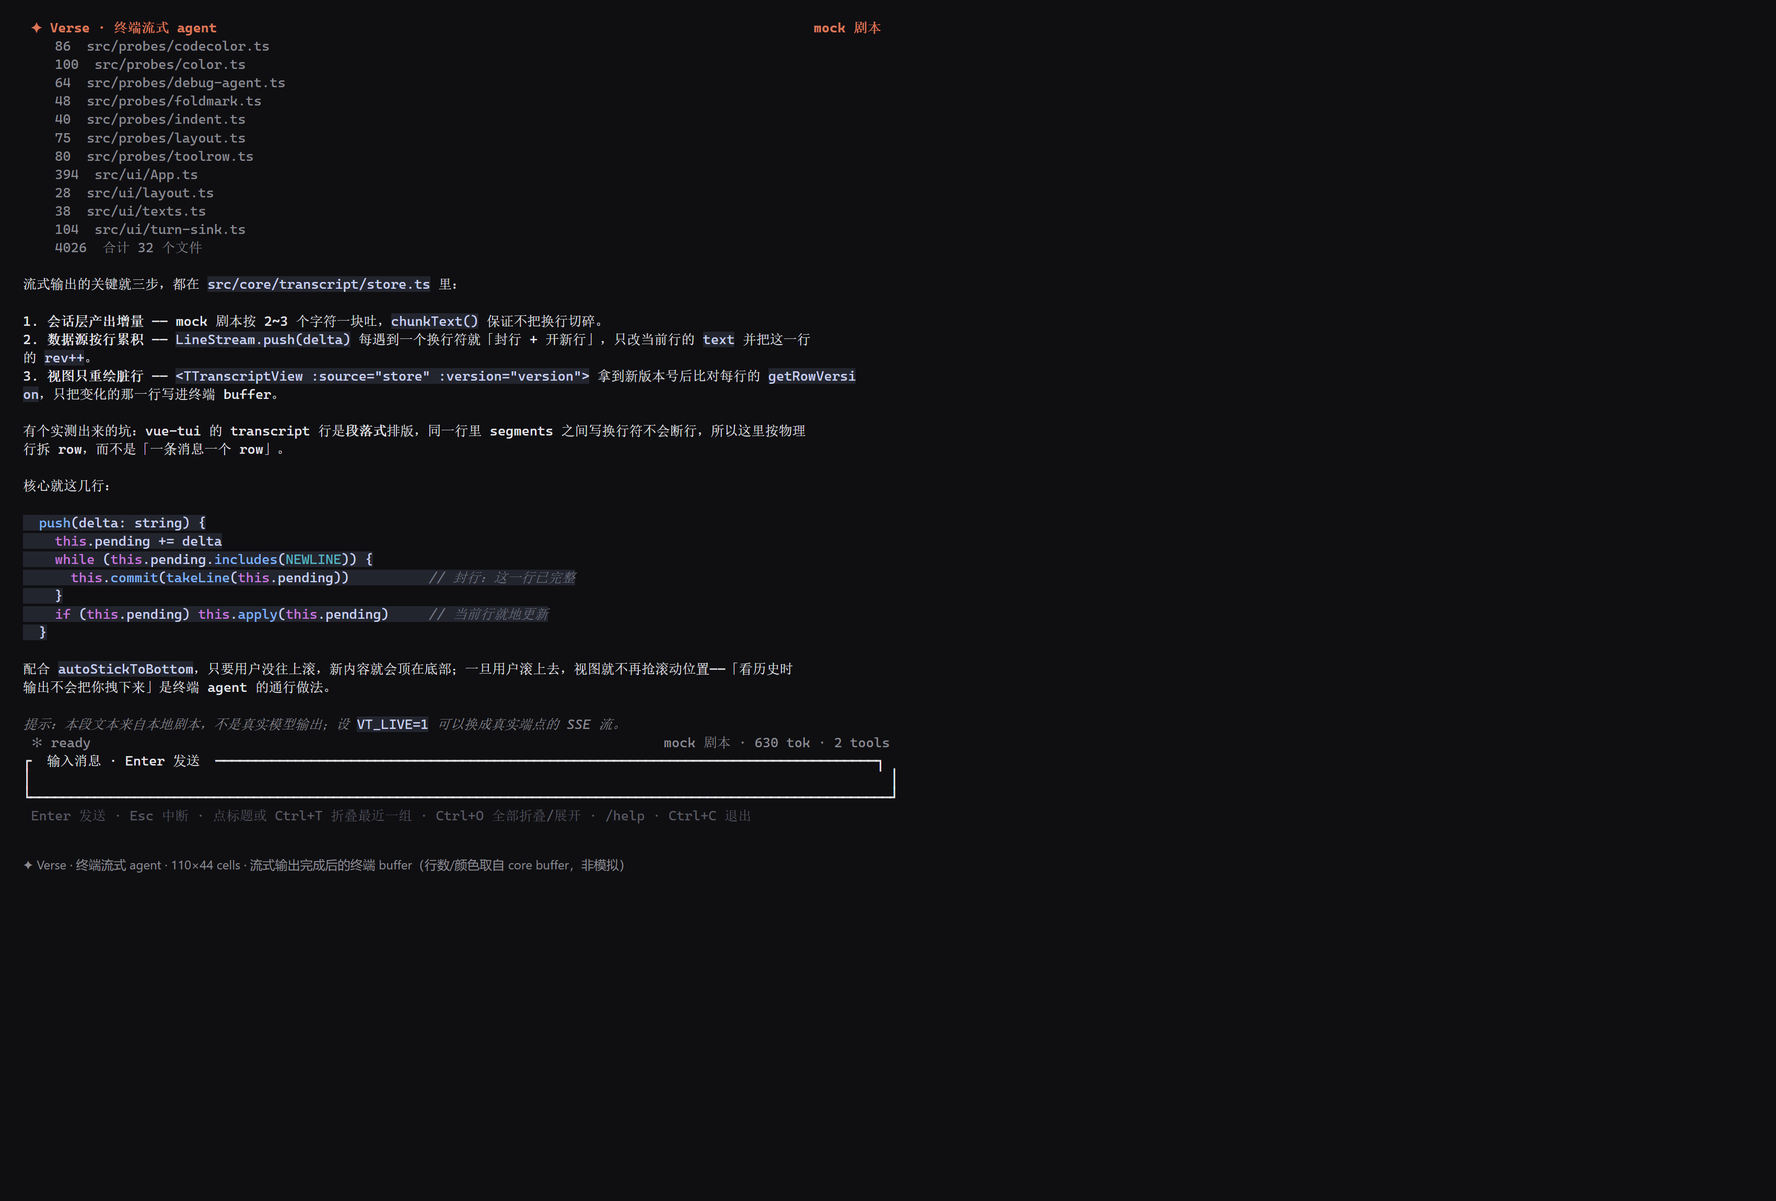
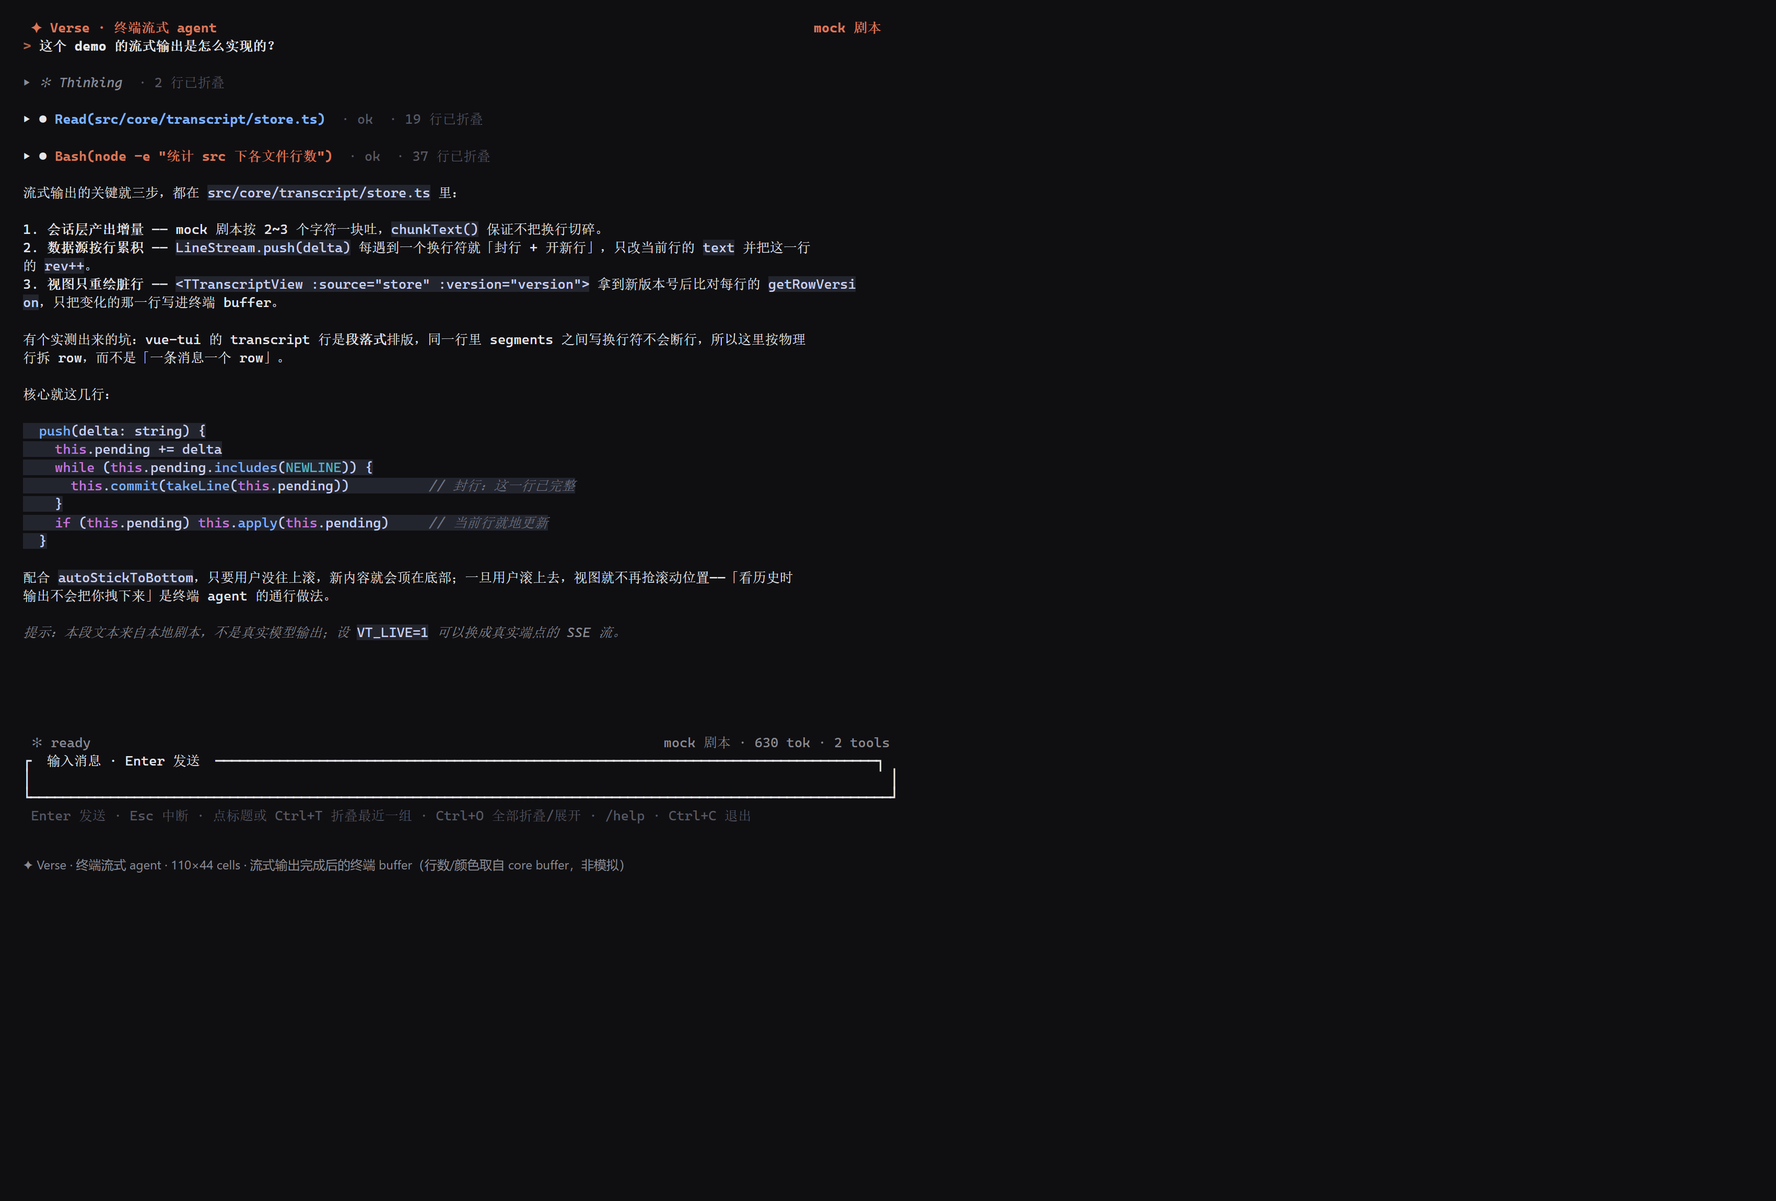
feat(fold): 折叠规则改为手风琴——流式中只展开当前组，回合结束全部收起
- store 新增 soloExpand(keepId?)：只留指定组展开，其余收起（无参则全收起）
- turn-sink 接入：新思考组 / 新工具组出现时收起前面的组；正文开始流式输出
  （此时没有当前组）全部收起；finish() 收尾再全收起一次（含 Esc 中断）
- shot.ts 新增 VT_SHOT_MIDTOOL=1：等第一个工具组展开那一帧出图
- smoke 新增两条数据层断言（手风琴不变式 max≤1、回合结束 0 展开）→ 20+9 项
- agent-check 折叠段按新默认态加「先显式展开」基线；两条旧断言随语义改写
- 文档图更新：新增流式中截图，删掉与默认态重复的折叠态图

Changed region(s): [[0.0, 0.0309, 0.4988, 0.6174]]

diff --git a/src/checks/smoke.ts b/src/checks/smoke.ts
@@ -76,18 +76,23 @@ const storeText = (): string => api.store.entries.map((e) => (e.kind === 'line' 
 
 // ── 第 1 轮：流式增量 ────────────────────────────────────────────────
 const versionSamples: number[] = []
+// 手风琴不变式：一轮进行中，展开的分组数任何时刻都不能超过 1
+const openGroupSamples: number[] = []
 api.submit(PROMPT_1)
 const deadline = Date.now() + 20_000
 // 先等这一轮真的开跑（submit 是异步启动），再采样——否则第一帧就会漏掉。
 while (!api.state().streaming && Date.now() < deadline) await sleep(2)
 while (api.state().streaming && Date.now() < deadline) {
   versionSamples.push(api.store.version.value)
+  openGroupSamples.push(api.groups().filter((g) => !g.collapsed).length)
   await sleep(3)
 }
 await api.whenIdle()
 
 const afterFirst = screenText()
 const firstState = api.state()
+const groupsAfterTurn = api.groups()
+
 
 // ── 折叠/展开：数据层（可见行）与屏幕层都要跟着变 ────────────────────
 const visText = (): string =>
@@ -101,6 +106,9 @@ const rowPayloadText = (): string => {
   for (let i = 0; i < api.store.rowCount(); i++) parts.push(JSON.stringify(api.store.getRow(i)))
   return parts.join(NL)
 }
+// 回合结束后是「全收起」，先展开全部作为基线，再测折叠往返
+api.toggleAll()
+await sleep(20)
 const expandedPayload = rowPayloadText()
 const groupsAfterFirst = api.groups()
 const expandedText = visText()
@@ -119,7 +127,10 @@ const reExpandedPayload = rowPayloadText()
 // ── 第 2 轮：中断 ────────────────────────────────────────────────────
 const rowsBeforeLong = api.store.rowCount()
 api.submit(PROMPT_LONG)
-await sleep(120)
+await sleep(60)
+// /long 会先清空转写：基线要取「清空后、这一轮开跑时」的行数
+const rowsAtLongStart = api.store.rowCount()
+await sleep(60)
 api.interrupt()
 await api.whenIdle()
 await sleep(20)
@@ -159,8 +170,9 @@ check(
   `展开态工具组含 params 块：${/(command|path): .{0,40}/.exec(expandedText)?.[0] ?? '(没找到)'}`,
 )
 check(
-  '思考被归成一个分组并自动收起',
-  groupsAfterFirst.some((g) => g.kind === 'thinking' && g.collapsed && g.lines > 0),
+  '思考与每次工具调用各自成组',
+  groupsAfterFirst.some((g) => g.kind === 'thinking' && g.lines > 0) &&
+    groupsAfterFirst.filter((g) => g.kind === 'tool').length >= 2,
   `groups=${JSON.stringify(groupsAfterFirst)}`,
 )
 
@@ -207,6 +219,16 @@ check(
 )
 
 check(
+  '流式中只展开当前组（手风琴）',
+  openGroupSamples.length > 0 && Math.max(...openGroupSamples) <= 1,
+  `采样 ${openGroupSamples.length} 次，展开组数最大值 ${openGroupSamples.length ? Math.max(...openGroupSamples) : '-'}（期望 ≤ 1）`,
+)
+check(
+  '回合结束后分组全部收起',
+  groupsAfterTurn.length > 1 && groupsAfterTurn.every((g) => g.collapsed),
+  `${groupsAfterTurn.length} 个分组，收起 ${groupsAfterTurn.filter((g) => g.collapsed).length} 个`,
+)
+check(
   '折叠真的隐藏了内容行',
   nowCollapsed === true && collapsedRows < expandedRows && !collapsedText.includes('合计'),
   `可见行 ${expandedRows} → ${collapsedRows}；折叠后仍能读到「合计」=${collapsedText.includes('合计')}`,
@@ -235,8 +257,8 @@ check(
 check('响应式宽度未溢出', finalScreen.every((line) => line.length <= COLS), `所有行 ≤ ${COLS} 列`)
 check(
   'Esc 能中断一轮',
-  api.store.rowCount() > rowsBeforeLong && /已中断/.test(afterInterrupt),
-  `行数 ${rowsBeforeLong} → ${api.store.rowCount()}；屏上出现中断提示=${/已中断/.test(afterInterrupt)}`,
+  api.store.rowCount() > rowsAtLongStart && /已中断/.test(afterInterrupt),
+  `这一轮从 ${rowsAtLongStart} 行涨到 ${api.store.rowCount()} 行（清空前是 ${rowsBeforeLong} 行）；屏上出现中断提示=${/已中断/.test(afterInterrupt)}`,
 )
 
 const failures = checks.filter((c) => !c.ok)

diff --git a/src/probes/foldrule.ts b/src/probes/foldrule.ts
@@ -1,0 +1,78 @@
+/**
+ * 探针：把一轮对话里「分组展开/收起」的轨迹按阶段打出来。
+ *
+ * 用途：确认手风琴规则真的按预期走 ——
+ *   思考阶段：思考组展开
+ *   工具阶段：思考组收起、当前工具组展开（前面的工具组也收起）
+ *   正文阶段：没有「当前组」，全部收起
+ *   回合结束：全部收起
+ *
+ * 用法：node src/probes/foldrule.ts
+ */
+import { createStdoutRenderer, createTerminalApp } from '@simon_he/vue-tui/cli'
+import { App, type AppApi } from '../ui/App.ts'
+import { styles } from '../core/theme.ts'
+import { loadDotEnv } from '../core/env.ts'
+
+loadDotEnv()
+
+const sleep = (ms: number) => new Promise<void>((r) => setTimeout(r, ms))
+const holder: { api: AppApi | null } = { api: null }
+const app = createTerminalApp({
+  cols: 110,
+  rows: 40,
+  component: App,
+  props: {
+    speed: 4, // 放慢，让每个阶段都有稳定的采样窗口
+    onReady(next: AppApi) {
+      holder.api = next
+    },
+  },
+  defaultStyle: styles.text,
+})
+app.mount()
+const out = createStdoutRenderer(app.terminal, {
+  output: { write: () => {}, isTTY: false },
+  clear: false,
+  hideCursor: false,
+  altScreen: false,
+  trackResize: false,
+  defaultBg: null,
+})
+void out
+
+await sleep(60)
+const api = holder.api
+if (!api) {
+  console.error('App 未就绪')
+  process.exit(1)
+}
+
+/** 当前展开的组：`kind:lines` 形式，便于一眼看出轨迹 */
+const openGroups = (): string => {
+  const open = api.groups().filter((g) => !g.collapsed)
+  return open.length ? open.map((g) => `${g.kind}(${g.lines}行)`).join(', ') : '（无，全部收起）'
+}
+
+api.submit('这个 demo 的流式输出是怎么实现的？')
+const deadline = Date.now() + 60_000
+const seen: string[] = []
+let maxOpen = 0
+while (api.state().streaming && Date.now() < deadline) {
+  const phase = api.state().phase
+  const openCount = api.groups().filter((g) => !g.collapsed).length
+  maxOpen = Math.max(maxOpen, openCount)
+  const line = `${phase.padEnd(9)} 展开: ${openGroups()}`
+  if (seen.at(-1) !== line) {
+    seen.push(line)
+    console.log('  ' + line)
+  }
+  await sleep(15)
+}
+await api.whenIdle()
+await sleep(30)
+console.log('  ' + `${api.state().phase.padEnd(9)} 展开: ${openGroups()}   ← 回合结束`)
+console.log(`\n阶段变化 ${seen.length} 次；过程中最大同时展开数 = ${maxOpen}（规则要求 ≤ 1）`)
+
+out.dispose()
+process.exit(0)

diff --git a/src/ui/turn-sink.ts b/src/ui/turn-sink.ts
@@ -24,7 +24,13 @@ export function createTurnSink(store: TranscriptStore, setPhase: (phase: Phase) 
   const keyOf = (tool: ToolStep): string => tool.id ?? `${tool.name}::${tool.arg}`
   const thinkingGroup: { id: string | null } = { id: null }
 
-  /** 思考说完就自动收起（参考答案的默认行为）；点标题可再展开 */
+  /**
+   * 一轮进行中的折叠规则（手风琴）：只有**正在写的那块**展开，前面的全部收起。
+   *   - 新的思考组出现 → 收起之前的
+   *   - 新的工具组出现 → 收起之前的（思考组也随之收起）
+   *   - 正文开始流式输出 → 此时没有「当前组」，于是全部收起
+   * 一轮结束时由 finish() 再全部收起一次（用户手点展开的也不例外，规则就是这么定的）。
+   */
   const collapseThinking = (): void => {
     if (thinkingGroup.id) store.setGroupCollapsed(thinkingGroup.id, true)
     thinkingGroup.id = null
@@ -37,6 +43,7 @@ export function createTurnSink(store: TranscriptStore, setPhase: (phase: Phase) 
       const { group, head } = store.startToolGroup({ name: tool.name, arg: tool.arg, params: tool.params })
       entry = { group, head, outStarted: false }
       toolGroups.set(key, entry)
+      store.soloExpand(group.id) // 新组独占展开，前面的收起
     }
     return entry
   }
@@ -48,6 +55,7 @@ export function createTurnSink(store: TranscriptStore, setPhase: (phase: Phase) 
         thinkingGroup.id = g.id
         live.thinking = store.stream('system', { group: g.id })
         live.answer = null
+        store.soloExpand(g.id) // 手风琴：新思考组独占展开
         setPhase('thinking')
       }
       live.thinking.push(delta)
@@ -83,6 +91,7 @@ export function createTurnSink(store: TranscriptStore, setPhase: (phase: Phase) 
         live.thinking?.end()
         live.thinking = null
         collapseThinking()
+        store.soloExpand() // 正文流式输出时没有「当前组」，全部收起
         store.blank()
         live.answer = store.stream('assistant')
         setPhase('answering')
@@ -96,6 +105,7 @@ export function createTurnSink(store: TranscriptStore, setPhase: (phase: Phase) 
     live.answer?.end()
     for (const t of toolGroups.values()) store.setToolStatus(t.head, 'ok')
     toolGroups.clear()
+    store.soloExpand() // 回合结束：think / tool 全部收起
     if (aborted) store.addNote('⎿ 已中断 · 本轮输出到此为止')
   }
 

diff --git a/src/cli/shot.ts b/src/cli/shot.ts
@@ -35,6 +35,9 @@ const PROMPTS = (
   .map((p) => p.trim())
   .filter(Boolean)
 const speed = Number(process.env.VT_SPEED ?? '0.05') || 0.05
+// 中途快照：等某个工具组展开（= 一轮正跑到工具阶段）就立刻出图，不等整轮结束。
+// 用来拍「流式中只有当前组是展开的」这个状态。
+const midTool = process.env.VT_SHOT_MIDTOOL === '1'
 
 const sleep = (ms: number) => new Promise<void>((r) => setTimeout(r, ms))
 
@@ -75,8 +78,17 @@ for (const prompt of PROMPTS) {
   // submit 只是启动一轮（异步），先等它真的开跑，再等它跑完——否则立刻查 streaming 会是 false。
   const deadline = Date.now() + (live ? 120_000 : 30_000)
   while (!api.state().streaming && Date.now() < deadline) await sleep(5)
-  while (api.state().streaming && Date.now() < deadline) await sleep(20)
-  await api.whenIdle()
+  if (midTool) {
+    // 等到「有工具组正展开」的那一帧就停手：那一刻正是「当前组展开、前面的已收起」。
+    // 配合 VT_SPEED 放慢节奏，抓到的就是一个稳定的流式中状态。
+    while (Date.now() < deadline) {
+      if (api.groups().some((g) => g.kind === 'tool' && !g.collapsed)) break
+      await sleep(10)
+    }
+  } else {
+    while (api.state().streaming && Date.now() < deadline) await sleep(20)
+    await api.whenIdle()
+  }
   await sleep(60)
 }
 

diff --git a/src/checks/agent-check.ts b/src/checks/agent-check.ts
@@ -211,6 +211,10 @@ const visibleText = (): string =>
     .visibleEntries()
     .map((e) => (e.kind === 'line' ? e.text : e.title))
     .join(NL)
+// 回合结束后的默认态是「分组全部收起」（手风琴规则的收尾），
+// 所以要测 params 展示与折叠往返，得先显式展开一遍拿到真实基线。
+api.toggleAll()
+await sleep(30)
 const expandedPayload = payloadText()
 const expandedText = visibleText()
 const expandedRows = api.store.rowCount()
@@ -236,7 +240,7 @@ const reExpandedPayload = payloadText()
 check(
   '再展开恢复（▾ 且行数变多）',
   reExpanded === false && reExpandedRows > collapsedRows && reExpandedPayload.includes('▾'),
-  `可见行 ${collapsedRows} → ${reExpandedRows}（比折叠前 ${expandedRows} 多，因为那次思考还收着）`,
+  `可见行 ${collapsedRows} → ${reExpandedRows}（与展开基线 ${expandedRows} 一致即说明往返无损）`,
 )
 
 const failures = checks.filter((c) => !c.ok)

diff --git a/src/core/transcript/store.ts b/src/core/transcript/store.ts
@@ -263,6 +263,24 @@ export class TranscriptStore implements TTranscriptDataSource {
     return last.id
   }
 
+  /**
+   * 手风琴：只留 keepId 这个组展开，其余全部收起（不传 keepId 则全收起）。
+   *
+   * 一轮进行中由 turn-sink 调用，实现「正在写的那块展开、前面的一律收起」；
+   * 一轮结束（或正文开始流式输出时）也用同一入口把全部收起。
+   */
+  soloExpand(keepId?: string): void {
+    let changed = false
+    for (const g of this.groups.values()) {
+      const shouldCollapse = keepId === undefined || g.id !== keepId
+      if (g.collapsed !== shouldCollapse) {
+        g.collapsed = shouldCollapse
+        changed = true
+      }
+    }
+    if (changed) this.bump()
+  }
+
   setToolStatus(head: ToolEntry, status: ToolStatus): void {
     head.status = status
     head.rev++

diff --git a/README.md b/README.md
@@ -34,7 +34,7 @@ pnpm dev                # 交互式
 | 命令 | 说明 |
 |---|---|
 | `pnpm dev` | 交互式 TUI（需要真实 TTY；无 TTY 会直接提示去跑 `pnpm smoke`） |
-| `pnpm smoke` | 无头：渲染 / 流式 / 折叠 / 颜色 18 项 + `.env` 加载行为 9 项（离线，不需要 key） |
+| `pnpm smoke` | 无头：渲染 / 流式 / 折叠 / 颜色 20 项 + `.env` 加载行为 9 项（离线，不需要 key） |
 | `pnpm live` | 无头：真实 SSE 端点的纯文本流 6 项 |
 | `pnpm agent` | 无头：AI SDK 工具 agent 10 项（含用 `fs` 独立核对模型写下的文件） |
 | `pnpm shot` | 把跑完的一轮渲染成带色 HTML，便于出图 |
@@ -102,13 +102,13 @@ agent 工作区  <repo>/.agent-sandbox
 
 噪音文案一律去掉：折叠行不重复「（点我展开）」（提示栏里说一次就够），无参数的调用不打「（无参数）」，状态用 `· ok` / `· err` 与标题分开。工具输出**按原样显示**，不为了对齐去改工具自己的格式。
 
-**展开态**（工具带 `params` 块）：
+**流式进行中**：只有正在写的那一块是展开的，前面的组自动收起（截图是跑到第二个工具时的状态，状态栏显示 `Running tool…`）：
+
+![流式中](docs/streaming.png)
+
+**手动展开全部**（`Ctrl+O` 或点标题；工具带 `params` 块）：
 
 ![展开态](docs/fold-expanded.png)
-
-**折叠态**（头部只留状态与行数，内容仍在内存里）：
-
-![折叠态](docs/fold-collapsed.png)
 
 ```
 ▸ ✻ Thinking  · 2 行已折叠
@@ -136,7 +136,20 @@ agent 工作区  <repo>/.agent-sandbox
     ...
 ```
 
-思考组在**回答开始时会自动收起**，点标题或 `Ctrl+T` 随时展开；一轮结束后工具组保持展开，方便看输出。
+**折叠规则（手风琴）**：一轮进行中只有**正在写的那块**展开，它一出现前面的组就自动收起；正文开始流式输出时（此时没有「当前组」）全部收起；**一轮结束（含 Esc 中断）后全部收起**。想细看就点标题或 `Ctrl+T`（最近一组）/ `Ctrl+O`（全部折叠或展开）。
+
+规则落在两处：`store.soloExpand(keepId?)`（只留一个展开，或全部收起）与 `src/ui/turn-sink.ts` 里的四处调用——新建思考组 / 新建工具组 / 正文开始 / 回合收尾。想改回「工具组保持展开」，把 `finish()` 里那行 `store.soloExpand()` 删掉即可。
+
+轨迹可以用探针一眼看全：
+
+```bash
+node src/probes/foldrule.ts
+#   thinking  展开: thinking(1行)
+#   tool      展开: tool(4行)          ← 思考组收起，当前工具组展开
+#   tool      展开: tool(13行)         ← 第二个工具出现，前一个收起
+#   answering 展开: （无，全部收起）    ← 正文开始
+#   idle      展开: （无，全部收起）    ← 回合结束
+```
 
 > `pnpm live` / `pnpm agent` 会真的打端点：背靠背连续跑会撞上游 RPM 限流（实测免费档 10 RPM），
 > 报 `AI_APICallError: request limited RPM reached` 时等一分钟再单跑一次即可，不是代码问题。
@@ -190,7 +203,7 @@ src/
     terminal.ts            交互式 TUI：createTerminalApp + stdout 渲染器 + stdin driver + 退出清理
     shot.ts                出图：把跑完的 buffer 转成带色 HTML（多轮用 ;; 分隔）
   checks/                断言脚本：退出码即结果
-    smoke.ts               渲染 / 流式 / 折叠 / 颜色 18 项（离线 mock）
+    smoke.ts               渲染 / 流式 / 折叠 / 颜色 20 项（离线 mock）
     live-check.ts          真实 SSE 端点 6 项
     agent-check.ts         AI SDK 工具 agent 10 项（含 fs 独立核对）
     env-check.ts           .env 加载行为 9 项（优先级 / 覆盖 / 坏行 / 不外泄）
@@ -260,7 +273,7 @@ streamText({ model, system, messages, tools, stopWhen: stepCountIs(8) })
 
 | 命令 | 覆盖 | 断言数 |
 |---|---|---|
-| `pnpm smoke` | mock 剧本的渲染链路 + `.env` 加载行为 | 18 + 9 = 27 |
+| `pnpm smoke` | mock 剧本的渲染链路 + `.env` 加载行为 | 20 + 9 = 29 |
 | `pnpm live` | 真实 SSE 端点的纯文本流 | 6 |
 | `pnpm agent` | 真实 API + 真实工具循环（含 `fs` 独立核对） | 10 |
 
@@ -268,23 +281,27 @@ streamText({ model, system, messages, tools, stopWhen: stepCountIs(8) })
 
 ```
 # pnpm smoke（离线）
-✔ 流式是增量的 — 采样 232 次，version 跨度 492
-✔ 产生了多帧提交 — commit 次数 541
+✔ 流式是增量的 — 采样 224 次，version 跨度 499
+✔ 产生了多帧提交 — commit 次数 521
+✔ 思考与每次工具调用各自成组 — 3 个分组（1 个 thinking + 2 个 tool）
+✔ 流式中只展开当前组（手风琴） — 采样 224 次，展开组数最大值 1（期望 ≤ 1）
+✔ 回合结束后分组全部收起 — 3 个分组，收起 3 个
 ✔ 工具调用显示了参数 — 展开态工具组含 params 块：path: src/core/transcript/store.ts
-✔ 思考被归成一个分组并自动收起 — groups=[thinking(collapsed,2 行), tool(19 行), tool(34 行)]
-✔ 折叠真的隐藏了内容行 — 可见行 82 → 29；折叠后仍能读到「合计」= false
-✔ 展开真的恢复内容行 — 可见行 29 → 84（82 是「思考已自动收起」的混合态）
+✔ 折叠真的隐藏了内容行 — 可见行 88 → 29；折叠后仍能读到「合计」= false
+✔ 展开真的恢复内容行 — 可见行 29 → 88（展开基线经显式展开取得，往返无损）
+✔ 代码块按语言上色 — 5 行代码，合计 5 种前景色：#c9d1f2 #7fb3ff #c678dd #56b6c2 #6f7480
+✔ 分组头部按类型上色 — 头部出现 4 种颜色：#8b8b93 #5a5a63 #7fb3ff #d97757
 
-# pnpm live（真实端点，约 1186 tok 的一轮）
-✔ 端点真的在流式返回 — 采样 722 次，version 跨度 1014
-✔ 模型文本进入了转写 — 9 行正文，约 1186 tok
-✔ markdown 被解析成结构化行 — 行样式集合：plain/code
-✔ 耗时合理 — 整轮 23.1s
+# pnpm live（真实端点，约 1875 tok 的一轮）
+✔ 端点真的在流式返回 — 采样 562 次，version 跨度 1478
+✔ 模型文本进入了转写 — 21 行正文，约 1875 tok
+✔ markdown 被解析成结构化行 — 行样式集合：code/plain/bullet
+✔ 耗时合理 — 整轮 19.6s
 
 # pnpm agent（真实 API + 真实工具）
 ✔ 模型写下的文件在磁盘上真的存在且内容正确 — 磁盘上 3 行，第 2 行含关键句
-✔ bash 的真实输出进了转写 — 工具输出 48 行；含 demo.txt = true
-✔ 流式是增量的 — 采样 1096 次，version 跨度 1161
+✔ bash 的真实输出进了转写 — 工具输出 31 行；含 demo.txt = true
+✔ 流式是增量的 — 采样 372 次，version 跨度 237
 ✔ 折叠真的收起内容（可见行下降 + ▸ 标记） — 可见行 88 → 40
 ✔ 再展开恢复（▾ 且行数变多） — 可见行 40 → 205
 ```
